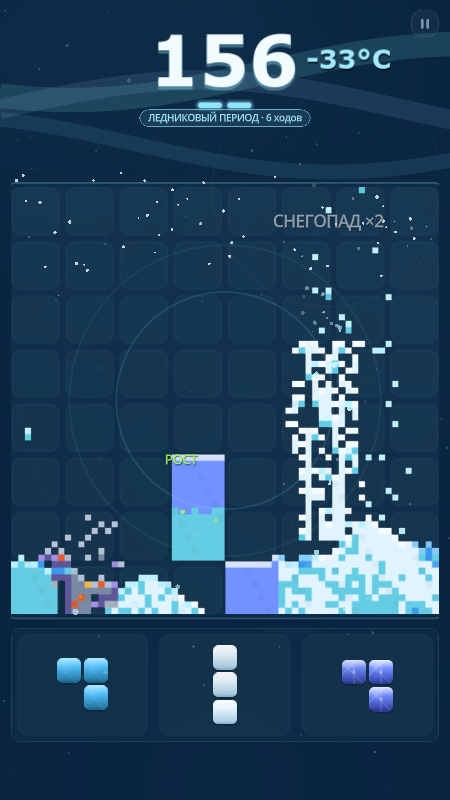
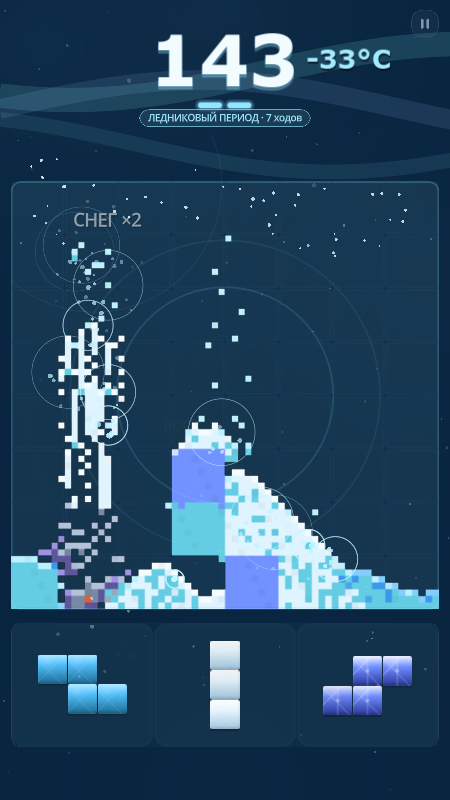
perf: low-end mobile mode, smoother drag, block styles, full cells, elemental sounds

diff --git a/README.md b/README.md
@@ -56,7 +56,7 @@ Windows-сборка не требует установки: запустить 
    полностью, затем откройте его через файловый менеджер.
 
 SHA-256 последней Android-сборки:
[2 lines of base64/hex data omitted]
 
 ---
 
@@ -275,6 +275,17 @@ C:\Program Files (x86)\Steam\steamapps\common\Godot Engine\godot.windows.opt.too
   (6×6 → 48×48 частиц, 10×10 → 80×80).
 - **Обучение**: отдельный экран с прокруткой, где объяснены базовые стихии,
   продукты и все ивентные элементы.
+- **Оптимизация под слабые телефоны**: на мобильных автоматически включается
+  лёгкий режим — 30 тиков симуляции вместо 45, меньше частиц и декоративных
+  эффектов, обновление жидкости 20 раз в секунду вместо 45, ограничение FPS.
+- **Стили блоков**: градиент, глянец, фаска и три визуальных стиля
+  («Классика», «Глянец», «Неон»), которые сменяются каждые два пробуждения.
+- **Блоки заполняют клетку целиком**: убран визуальный зазор, уменьшены скругления
+  и тени, фигуры в лотке стали плотнее.
+- **Плавное перетаскивание**: фигура следует за пальцем, плавно масштабируется
+  над полем, а призрачный предпросмотр показывает место установки.
+- **Звуки стихий**: вода льётся, кислота шипит, огонь трещит, лава гудит, пар
+  выходит с шипением, лёд звенит, растения растут, взрывы гремят.
 - **Температура**: шкала от −40 до +100 °C, случайное изменение на 8–30 °C
   каждый ход, таяние, кипение, замерзание, застывание лавы, нагрев камня,
   снег и жар; крупные градусы в HUD и фон в тон температуры.
@@ -317,6 +328,7 @@ scripts/
   EventDefs.gd             данные событий: погода, правила, стихии, веса
   ElementInfo.gd           описания всех стихий для обучения
   ThemeKit.gd              палитры тёмной и светлой темы
+  QualitySettings.gd       автоматический лёгкий режим для слабых устройств
   BoardView.gd             отрисовка поля/лотка/жидкости, ввод, частицы, попапы
   Main.gd                  HUD, меню, обучение, темы, размер поля, оверлеи, звук
   Profile.gd               автолоад: рекорд, mute, тема и размер поля
@@ -437,6 +449,19 @@ build/windows/             готовая Windows-сборка
   для тёмной и светлой темы.
 - Светлые фоны событий задаются в `EventDefs` полем `bg_light`.
 
+`scripts/QualitySettings.gd`:
+
+- `low_end` — лёгкий режим для мобильных/слабых устройств.
+- `sand_tick_rate`, `sand_max_ticks`, `sand_max_steps` — нагрузка симуляции.
+- `texture_fps`, `sand_scale` — частота и разрешение обновления жидкости.
+- `star_count`, `ambient_*`, `snow_*`, `heat_*` — плотность декоративных эффектов.
+- `--quality=low|high` — принудительный режим для теста.
+
+`scripts/Sfx.gd`:
+
+- `water`, `acid`, `fire`, `lava`, `steam`, `freeze`, `grow`, `explosion` —
+  процедурные звуки стихий; игра выбирает их по типу выброса и реакции.
+
 `scripts/ElementInfo.gd`:
 
 - `ELEMENTS` — названия, цвета и описания всех базовых, ивентных стихий и
@@ -503,6 +528,9 @@ ElementBlast.exe -- --screen=settings --delay=1.4 --shot=C:/tmp/settings.png
 ElementBlast.exe -- --theme=light --delay=1.5 --shot=C:/tmp/light.png
 ElementBlast.exe -- --theme=light --size=10 --screen=start --delay=1.5 --shot=C:/tmp/light10.png
 ElementBlast.exe -- --screen=tutorial --delay=1.4 --shot=C:/tmp/tutorial.png
+
+# Лёгкий режим / проверка производительности
+ElementBlast.exe -- --quality=low --screen=flood --delay=2.6 --shot=C:/tmp/low.png
 ```
 
 ---
